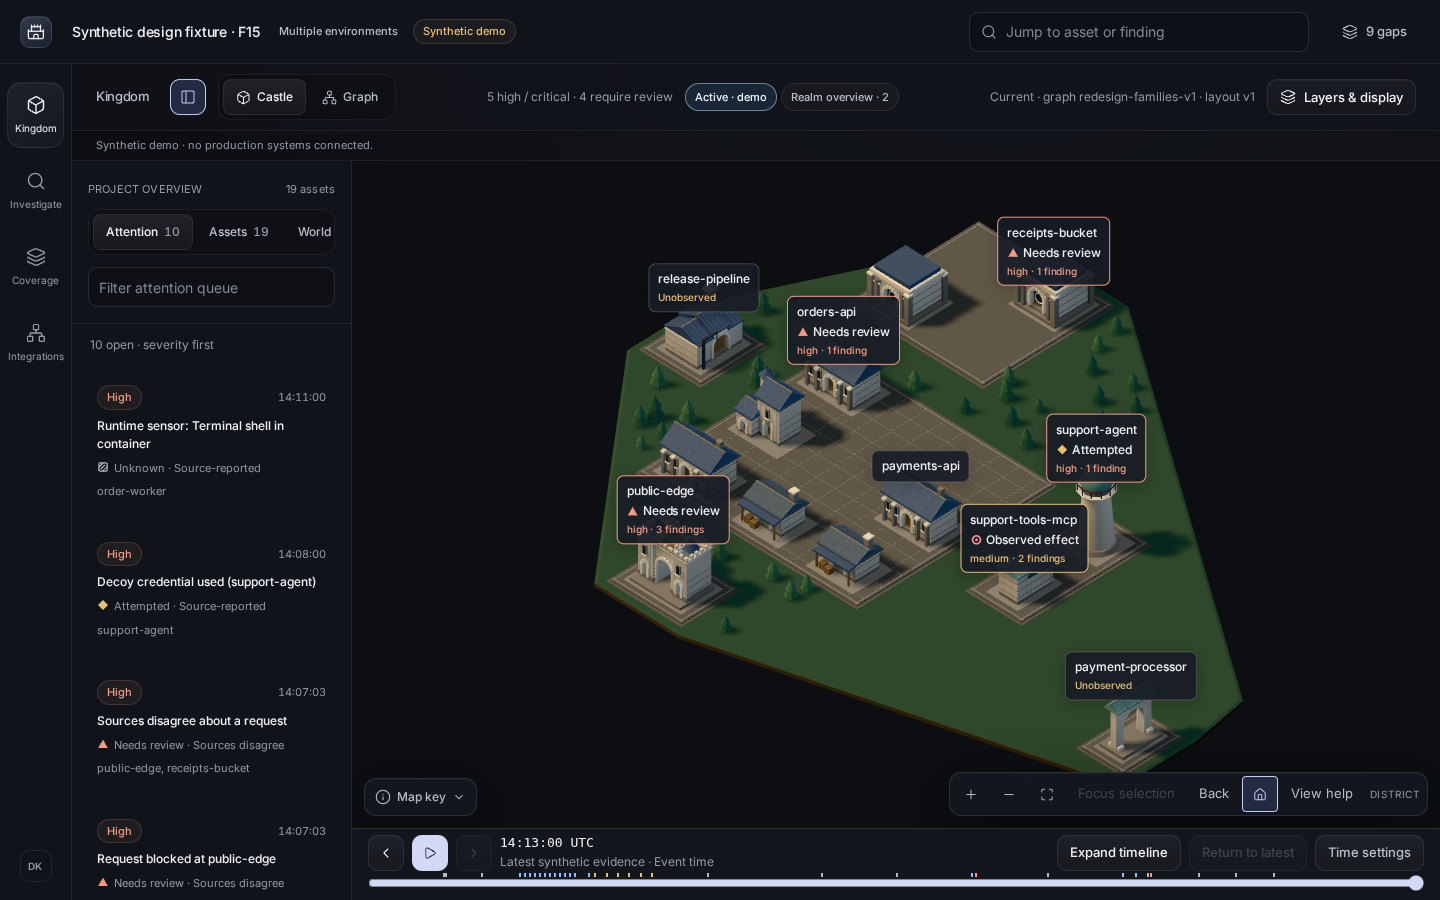
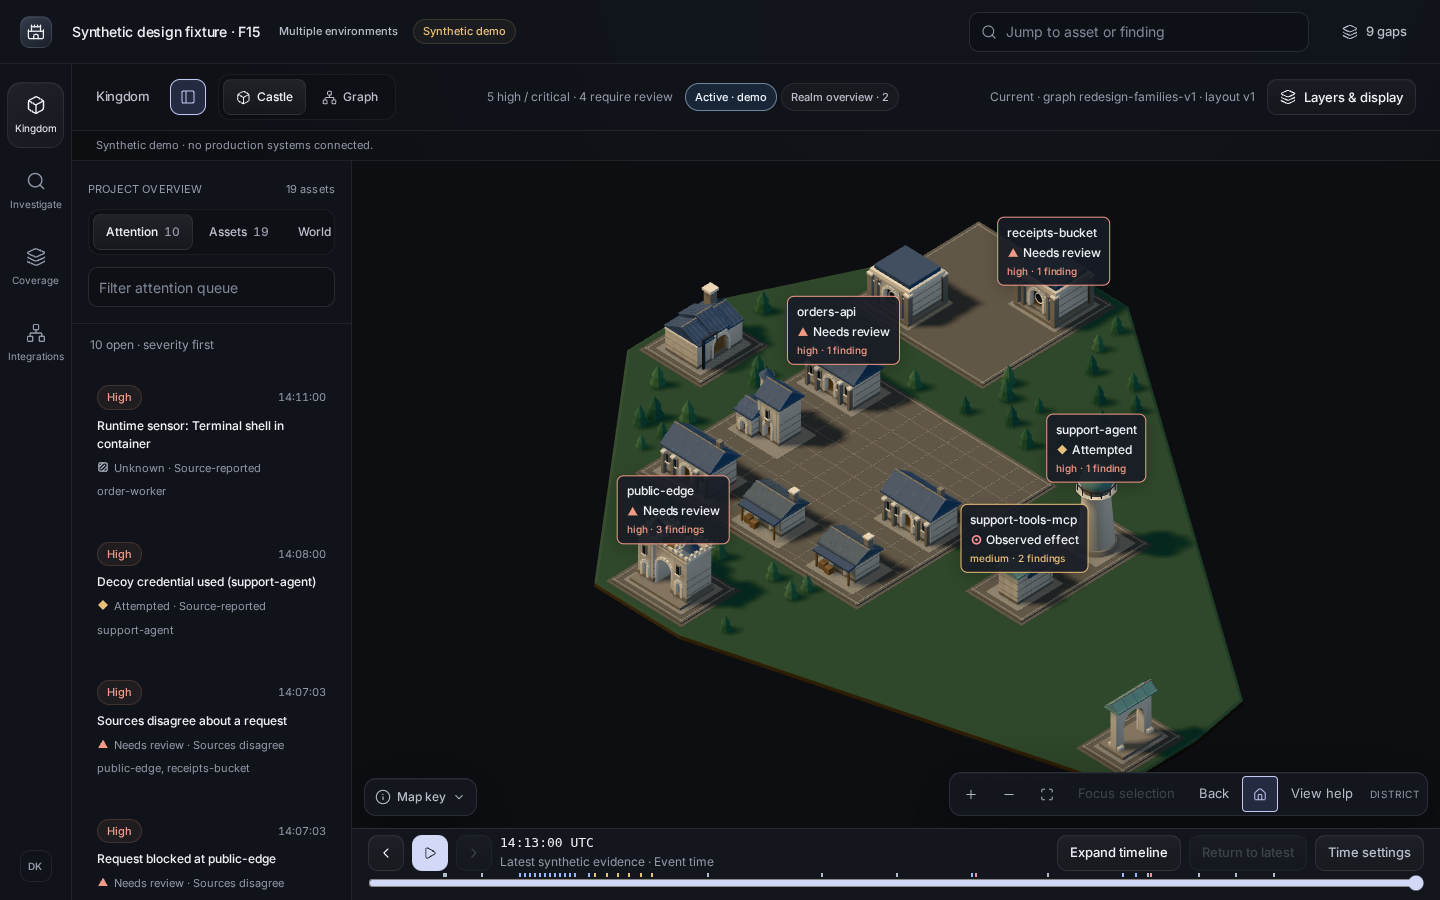
next-C: receipt, before/after screenshots (SwiftShader, 1440x900) with metadata

Changed region(s): [[0.7188, 0.7156, 0.8438, 0.7778], [0.5938, 0.4978, 0.6875, 0.56], [0.4375, 0.28, 0.5312, 0.3422]]

diff --git a/docs/phases/local-intelligence/receipts/next-C.md b/docs/phases/local-intelligence/receipts/next-C.md
@@ -1,7 +1,57 @@
 # next-C — UX focus: active-environment framing and attention compaction (post-phase batch)
 
-Branch `phase/li-next-c` from main `b0b4a20`. Source: work/next/review/STATUS_REVIEW.md §E. Status: IN PROGRESS.
+Branch `phase/li-next-c` from main `b0b4a20`. Source: work/next/review/STATUS_REVIEW.md §E. Recorded 2026-10-24 (CDT).
+STATUS.json intentionally not edited. No model/provider calls. Web UI only (apps/web, e2e, docs).
 
-## Failing-before (tests written first)
-`pnpm vitest run apps/web/src/lib/{attentionGroups,framing,caseFocus}.test.ts` at the tests-first commit:
-3 files failed, "Failed to load url ./framing.ts … Does the file exist?" (likewise attentionGroups.ts, caseFocus.ts). No tests ran.
+## What changed
+1. **Active-environment framing** (`apps/web/src/lib/framing.ts`). In a world with ≥2 populated environments and an
+   ungrouped scene (≤50 rooms), the castle's first frame is the *active* environment: most high/critical assets, then
+   most distinct findings, then most assets, then id. Implicit, presentation only: nothing is hidden, no evidence changes,
+   nothing is written to the URL. An explicit world focus (navigator, toolbar buttons) always wins.
+   - Shared toolbar control `WorldFraming` (`data-testid=world-framing`, Shell.tsx): `Active · <env>` and
+     `Realm overview · N`. Both set the existing LP16 world focus (`wf=` in the URL), so castle, graph and navigator agree.
+   - 2D/3D parity: castle (`.castle-wrap[data-framing]`) and graph (`.graph-wrap[data-framing]`) read the same
+     `viewFraming()`; the graph marks `data-world-focus=member|outside` and dims non-members only for an explicit focus.
+   - Grouped scenes (>50 rooms) keep their existing district overview (no implicit frame) — deliberate, to avoid changing
+     LP16 scale behavior.
+2. **Attention compaction** (`apps/web/src/lib/attentionGroups.ts`, AttentionPanel.tsx). Repeated low-urgency items of
+   one kind (≥2) collapse into one row: exact count, subject ids, `Show all N` (aria-expanded) revealing every item as an
+   ordinary card with its Acknowledge control. Never grouped: medium/high urgency, observer (coverage) gaps,
+   contradictions, incomplete repairs, items with changes since acknowledgement. No item is dropped, merged,
+   acknowledged or re-scored; server data/semantics untouched. Cards are denser (actions beside the text).
+3. **Case focus strip** (`CaseFocus` in CasesWorkspace.tsx, `apps/web/src/lib/caseFocus.ts`). With a case open, its
+   question and next evidence obligation (failed > partial > not started > unavailable; falls back to the workbench's
+   next meaningful action) sit above the attention queue in the first viewport. Read-only mirror.
+
+## Tests
+- Failing-before: at commit 3d3c4f3 `pnpm vitest run apps/web/src/lib/{attentionGroups,framing,caseFocus}.test.ts`
+  → 3 files failed, "Failed to load url ./framing.ts … Does the file exist?" (likewise the other two). No tests ran.
+- Passing-after: 9/9 new unit tests (5 grouping incl. a 40-mix exhaustiveness check, 3 framing, 1 next-obligation).
+  apps/web vitest: 29 files / 234 tests pass. `pnpm typecheck` passes.
+- New e2e `e2e/focus-next-c-redesign.spec.ts` (3 tests): F15 implicit active-env frame, explicit realm overview (zoom
+  drops >1.3×, label count unchanged, `wf=realm` in URL), back to env, graph parity; F01 single env shows no control;
+  stale checks grouped with exact count, expand shows all, case question + next obligation inside 900px and above the
+  queue. Locally all 3 passed (1.6 min) on the first run. Later local runs timed out in clicks/canvas waits while the
+  2-core sandbox ran at load ≈8 (other agents + vitest); the same CPU-starvation timeouts hit unchanged suites
+  (cases-redesign CONN-01/CTL-01 which never touch changed code). CI is the authority — see below.
+- No existing e2e expectation was edited. LP17 F15 test: its `lp17-f15-mixed-world` capture now shows the active
+  environment (intended); its navigator env-row assertion still requires a pose change (env:synthetic-design ≠ env:demo).
+
+## Screenshots (docs/phases/local-intelligence/screenshots/next-C/, 1440×900, DPR 1, Chromium headless, SwiftShader software WebGL; .meta.json beside each)
+- before-lp17-f15-mixed-world.png, before-lp30-case-workbench-desktop.png — copied unchanged from the review captures at b0b4a20 (hashes match review meta).
+- after-f15-active-environment.png (commit 8fc2e72 build) — default frame on env `demo`; populated region fills the stage.
+- after-f15-realm-overview.png (8fc2e72) — explicit overview; the compiled environment gap is still visible here.
+- after-cases-attention-compact-no-case.png, after-cases-case-focus.png (db1ea8a build, i.e. before the denser-card CSS
+  of 8fc2e72) — the stale-check group row sits below three medium cards inside the scrolling queue in these captures.
+
+## CI
+- 40132161201 (8fc2e72): check failed in `examples/reference-app/e2e.test.ts` ("expected +0 to be 10" — SDK flush
+  event count; server/SDK path not touched by this branch; 983 other tests passed); browser-pilot skipped as a result.
+- Final head: see "CI (final)" below.
+
+## Limitations / remaining
+- Region spacing is constrained by framing only. The compiled scene keeps its deterministic environment stride
+  (packages/scene-compiler compile.ts `environmentStride`); compacting it would move pinned layouts and digests, so the
+  explicit Realm overview still shows the empty gap. A presentation-only realm layout (or a reviewed reflow) is the next step.
+- Implicit framing is not applied to grouped (>50 room) scenes.
+- Case screenshots predate the denser card CSS; recapture when the machine is idle.
